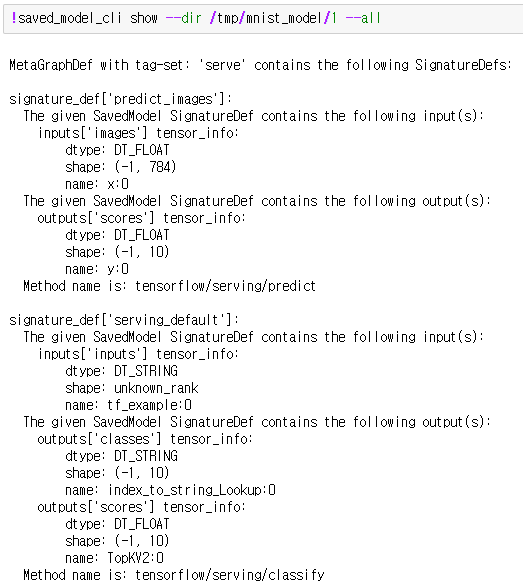
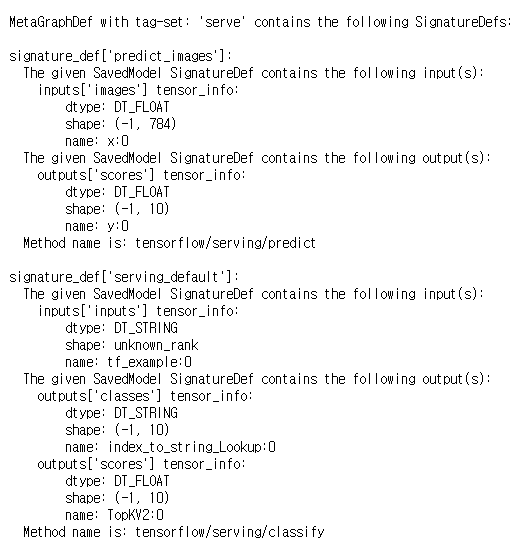
.

diff --git a/_posts/2019-10-10-serving-saved_model.md b/_posts/2019-10-10-serving-saved_model.md
@@ -1,6 +1,6 @@
 ---
 title: "직접 학습시킨 모델로 Serving하기"
-date: 2019-10-04 00:00:00 +0900
+date: 2019-10-10 00:00:00 +0900
 categories: TensorflowServing
 ---
 
@@ -23,6 +23,8 @@ Inference에서 사용되는 그래프에는 입력 및 출력이 있으며 sign
 <https://github.com/tensorflow/tensorflow/tree/master/tensorflow/python/saved_model> 
 
 <https://www.tensorflow.org/guide/saved_model> 
+
+
 
 ```python
 export_dir = ...
@@ -49,5 +51,15 @@ with tf.Session(graph=tf.Graph()) as sess:
   tf.saved_model.loader.load(sess, [tag_constants.TRAINING], export_dir)
   ...
 ```
+
+<https://www.tensorflow.org/tfx/serving/signature_defs> 
+
+```
+saved_model_cli show --dir /tmp/mnist_model/1 --all
+```
+
+
+
+![fig1](https://bjo9280.github.io/assets/images/2019-10-10/fig1.png)
 
 작성중
